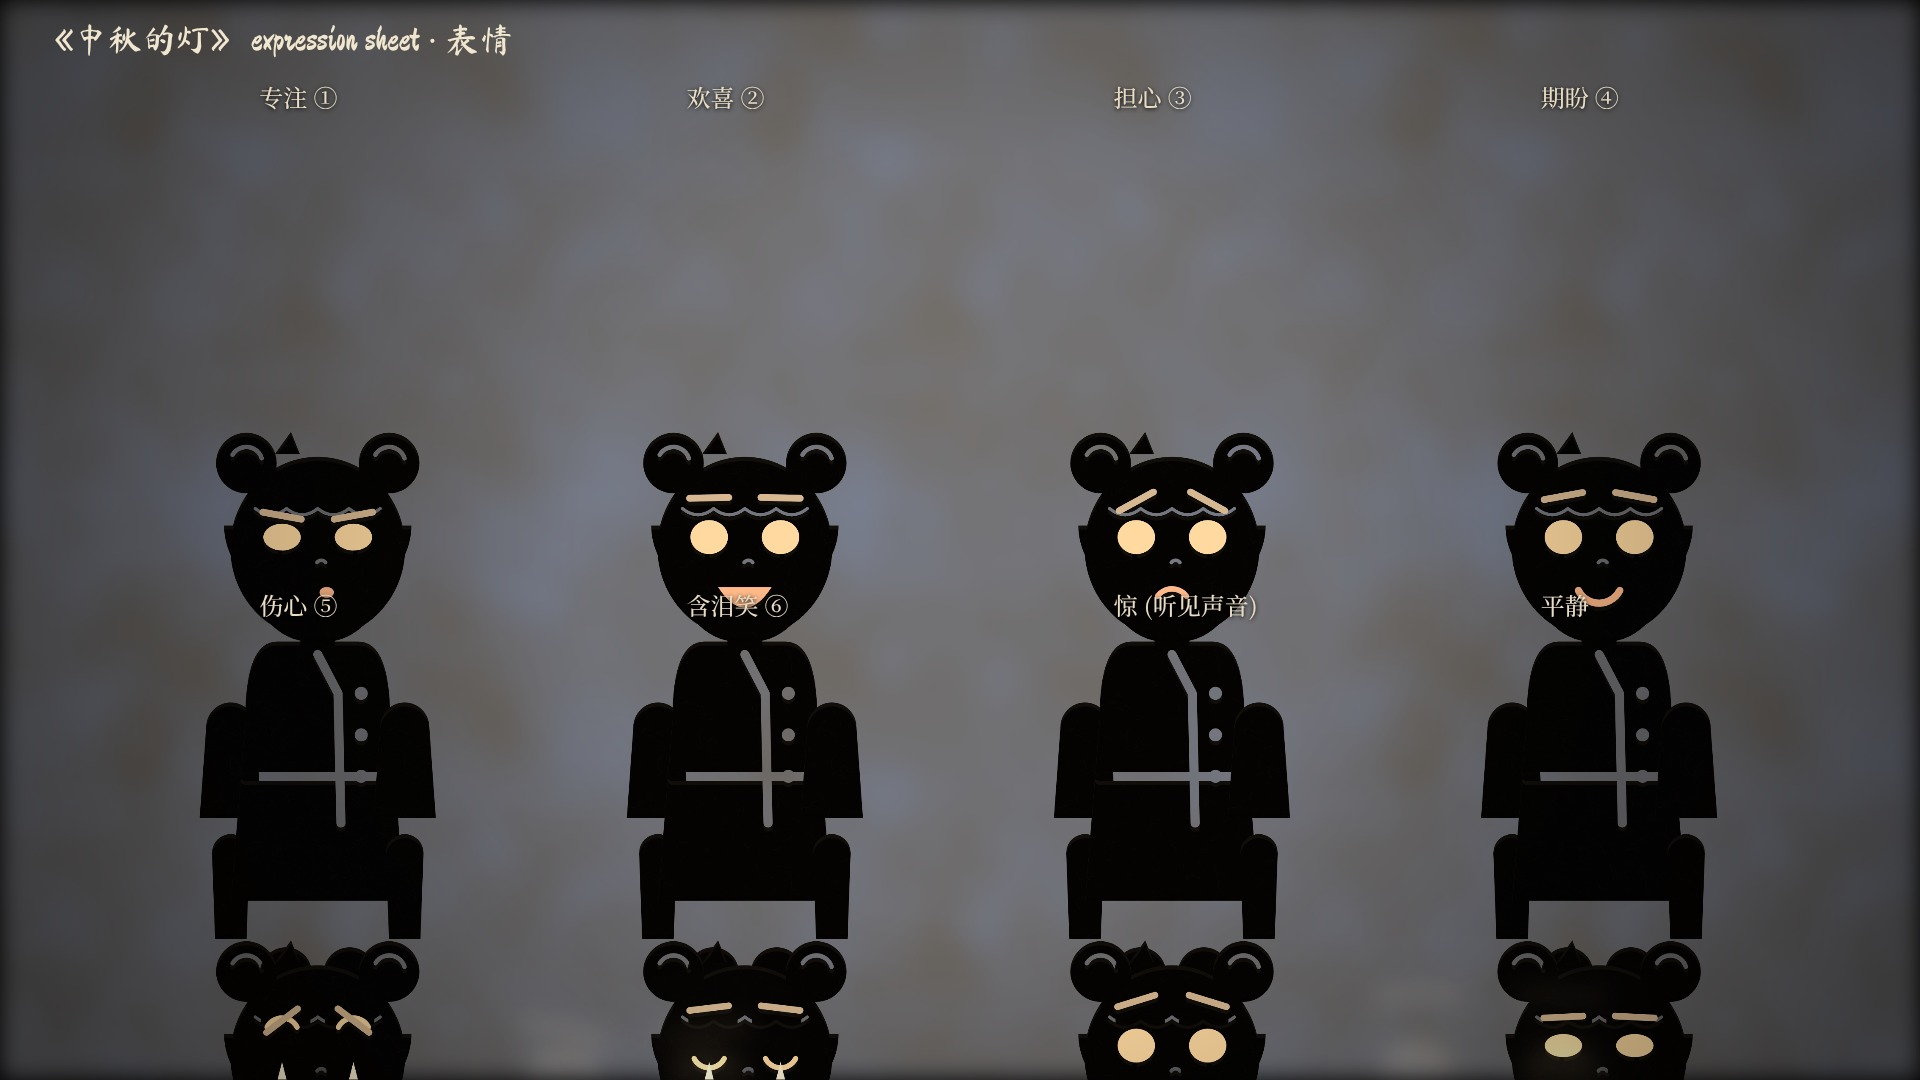
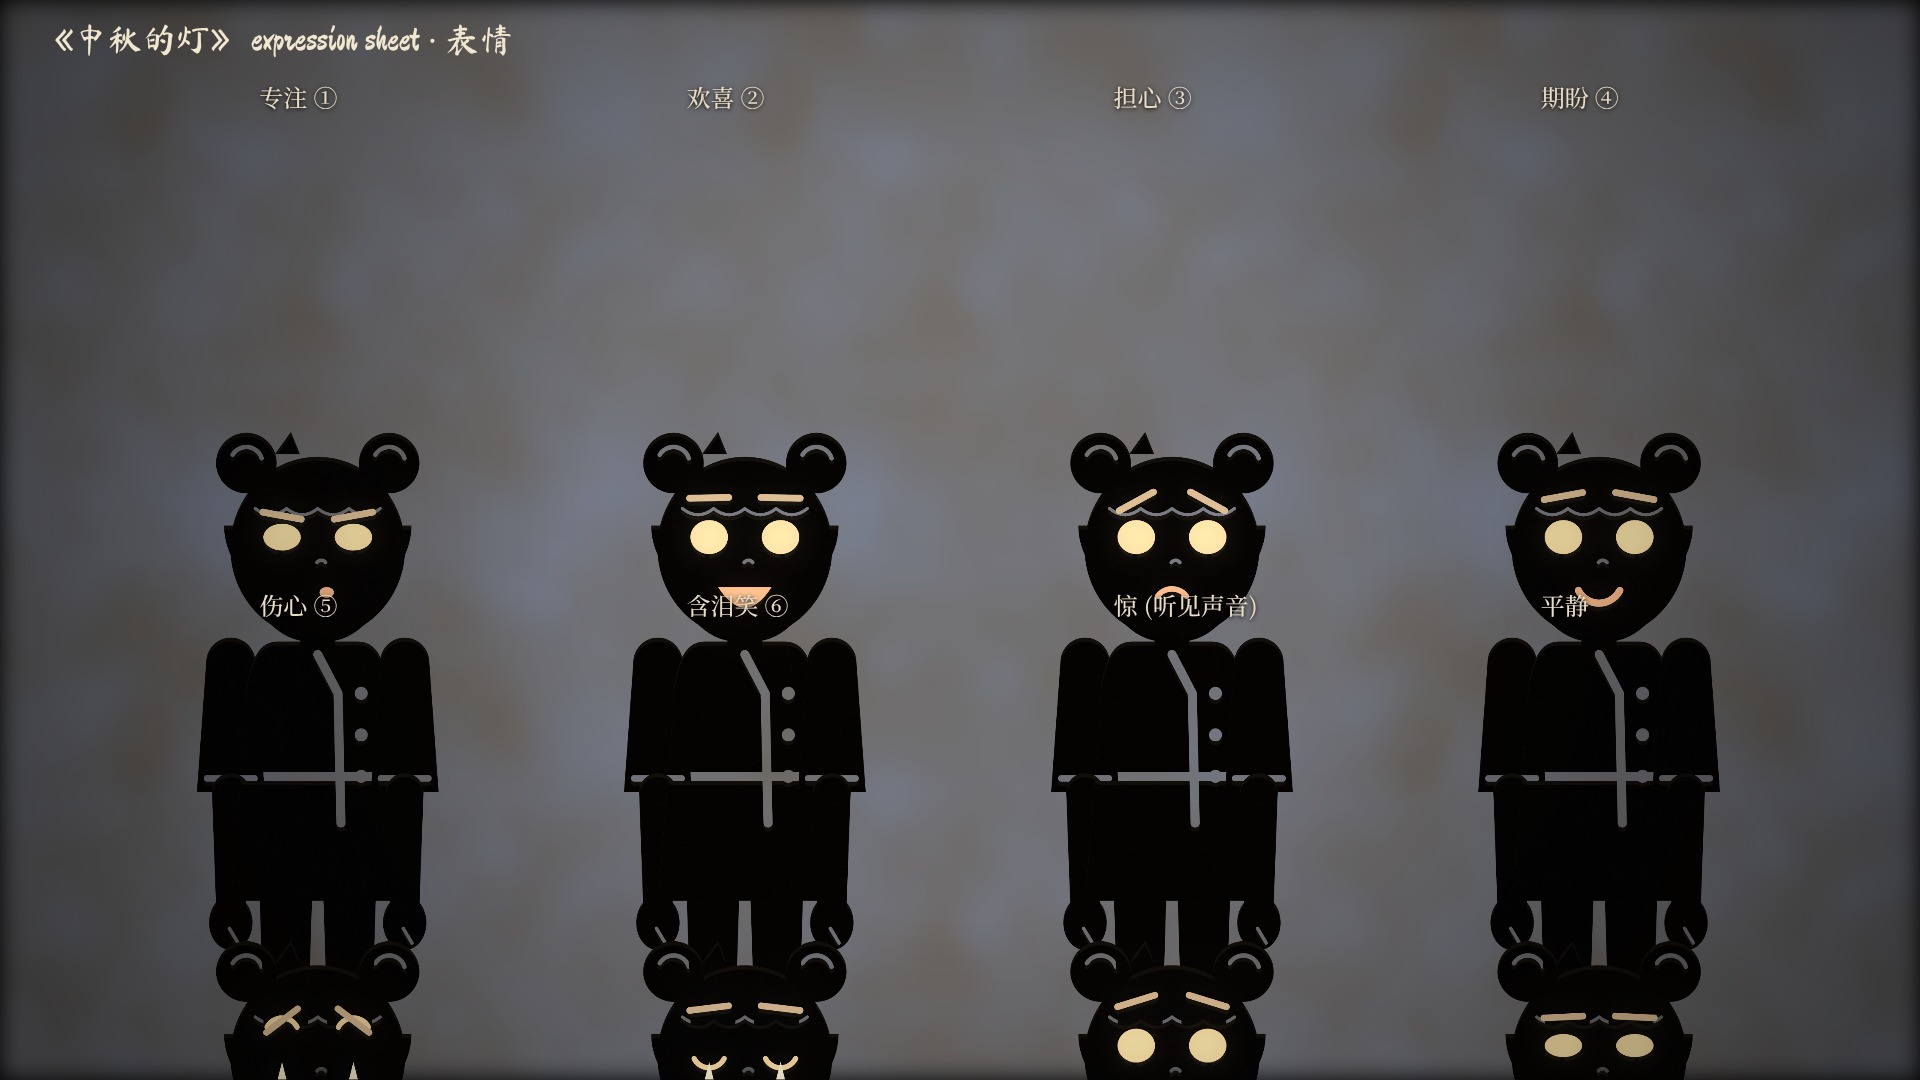
moon-lanterns: credits, glyph/subtitle/contact checks, treatment comparison with the demo
Claude-Session: https://claude.ai/code/session_01SfPLwqEfxXQUvB65PcgVmr

diff --git a/films/moon-lanterns/src/scenes.js b/films/moon-lanterns/src/scenes.js
@@ -81,7 +81,7 @@ export function village(variant, o = {}) {
     it.title = S.add(stripL, strip({ w: .2, h: .05, text: '中秋的灯', size: .034, font: 'MaShanZheng', name: 'title', paper: '#f3e2bd', ink: '#3a1810', spacing: .003 }), { x: .09, y: .085, reveal: { from: 'right', k: 0 }, vis: true });
     it.seal = S.add(stripL, piece({ w: .02, h: .02, ppm: 8000, color: '#c8322a', finish: { px: 2, rim: .2, under: .2 }, draw: x => { x.beginPath(); x.roundRect(-.007, -.007, .014, .014, .001); x.fill(); text(x, '月', 0, .0003, .0105, 'MaShanZheng', { fill: '#f7e9d2' }); } }), { x: .172, y: .072, vis: false });
     const capL = S.layer({ z: -.074, trans: .5, shadow: false, recv: false });
-    it.caption = S.add(capL, strip({ w: .16, h: .022, text: '八月十五 · 石崖渔村', size: .013, font: 'MaShanZheng', name: 'caption', paper: '#efdcb4', ink: '#3a1810', spacing: .001 }), { x: -.09, y: -.078, reveal: { from: 'left', k: 0 } });
+    it.caption = S.add(capL, strip({ w: .16, h: .022, text: '八月十五 · 石崖渔村', size: .013, font: 'MaShanZheng, NotoSerifSC', name: 'caption', paper: '#efdcb4', ink: '#3a1810', spacing: .001 }), { x: -.09, y: -.078, reveal: { from: 'left', k: 0 } });
   }
   // figures at the pier end (built on demand by the shots)
   const figL = S.layer({ z: -.072, trans: .1 });

diff --git a/films/moon-lanterns/tools/glyphcheck.py b/films/moon-lanterns/tools/glyphcheck.py
@@ -1,0 +1,24 @@
+"""CJK glyph check: every character the film puts on screen (paper strips in timeline.json STRIPS, subtitles in CUES, the seal)
+must have a real glyph in the font that draws it (no .notdef box). Then a rendered-frame check: a frame with the title and one
+with each subtitle are rendered and the text area is searched for the hollow-box signature (a rectangle outline) — reported as
+pixels, with a note. python tools/glyphcheck.py"""
+import json, os, sys
+from fontTools.ttLib import TTFont
+HERE = os.path.dirname(os.path.dirname(os.path.abspath(__file__)))
+TL = json.load(open(os.path.join(HERE, 'timeline.json')))
+brush = TTFont(os.path.join(HERE, 'fonts', 'MaShanZheng-Regular.ttf')); serif = TTFont(os.path.join(HERE, 'fonts', 'NotoSerifSC-sub.ttf'))
+def cmap(f): return f.getBestCmap()
+cb, cs = cmap(brush), cmap(serif)
+bad = []
+for s in TL['STRIPS'] + [{'id': 'seal', 'text': '月'}]:
+    for ch in s['text']:
+        if ch.isspace(): continue
+        if ord(ch) not in cb and ord(ch) not in cs: bad.append(('MaShanZheng/NotoSerifSC', s['id'], ch))   # strips use the brush font with Noto Serif SC as the per-glyph fallback (the middle dot)
+for c in TL['CUES']:
+    for ch in c['text']:
+        if ch.isspace(): continue
+        if ord(ch) not in cs: bad.append(('NotoSerifSC-sub', c['id'], ch))
+n = sum(len(s['text'].replace(' ', '')) for s in TL['STRIPS']) + 1 + sum(len(c['text']) for c in TL['CUES'])
+if bad: print('MISSING GLYPHS:', bad); sys.exit(1)
+fb = [ch for s_ in TL['STRIPS'] for ch in s_['text'] if not ch.isspace() and ord(ch) not in cb]
+print(f'{n} characters on screen, every one has a glyph (Ma Shan Zheng: {len(cb)} glyphs; Noto Serif SC subset: {len(cs)} glyphs; strip characters drawn by the Noto fallback: {fb or "none"})')

diff --git a/films/moon-lanterns/tools/subcheck.py b/films/moon-lanterns/tools/subcheck.py
@@ -1,0 +1,22 @@
+"""Is the ground under every subtitle dark? For each cue, one frame at its middle: in the subtitle box, the share of
+non-text pixels darker than L 0.35 (text = bright and unsaturated). python tools/subcheck.py film.mp4"""
+import json, os, subprocess, sys
+import numpy as np
+HERE = os.path.dirname(os.path.dirname(os.path.abspath(__file__)))
+film = sys.argv[1]
+TL = json.load(open(os.path.join(HERE, 'timeline.json'))); cues = TL['CUES']; H = TL['HIT']
+worst = 1
+for c in cues:
+    t = (c['t0'] + c['t1']) / 2
+    raw = subprocess.run(['ffmpeg', '-loglevel', 'error', '-ss', f'{t:.3f}', '-i', film, '-frames:v', '1', '-f', 'rawvideo', '-pix_fmt', 'rgb24', '-'], capture_output=True).stdout
+    if len(raw) < 1920 * 1080 * 3: print('no frame at', t); continue
+    im = np.frombuffer(raw, np.uint8).reshape(1080, 1920, 3) / 255.
+    bottom = 74 if t > H['pullOut'] + 3 else 64
+    y1 = 1080 - bottom + 8; y0 = y1 - 70
+    box = im[y0:y1, 560:1360]
+    L = box @ np.array([.2126, .7152, .0722]); sat = box.max(2) - box.min(2)
+    text = (L > .55) & (sat < .2)
+    dark = ((L < .35) & ~text).sum() / max(1, (~text).sum())
+    worst = min(worst, dark)
+    print(f"{c['id']:4} {t:7.2f}s  dark ground {dark * 100:5.1f}%  {c['text']}")
+print('worst', round(worst * 100, 1), '%')

diff --git a/films/moon-lanterns/TREATMENT.md b/films/moon-lanterns/TREATMENT.md
@@ -181,12 +181,18 @@ Three layers throughout; music ducks under the radio crackle and the key light c
 
 ## 12. Not the demo (filled after reading DEMO.md)
 
+Read after the treatment was written. Six points compared; all six differ.
+
 | | Demo (The Last Night Train) | This film |
 |---|---|---|
-| Structure | a train's last run, halt by halt | one night in a village: home → fog → tower → chain → reunion, with a keepsake frame |
-| Opening | (see DEMO.md) a box shot and a title | the lamp switched off in a dark room, then on; title grows on the front sheet |
-| Signature shot | windows lighting car by car; a viaduct | a chain of villagers' lanterns lining a cliff path and a lighthouse gallery, burning through fog |
-| Camera path | lateral travel with the train | push into the box, tilt up a tower, rack focus to a lighthouse, dolly out from the tower, pull out of the box |
-| Score shape | (see DEMO.md) | one music-box theme, broken to a single piano note and silence, restated in a string swell |
-| Ending | windows going out at a terminus; a ticket end card | the lit lamp and a faded old rabbit lantern on a table; a closing line under the box |
-| Props | train, name boards, ticket | rabbit lantern, mooncakes, radio, lighthouse, festival lanterns (lotus, fish, star, carp) |
+| Structure | a train's last run, halt by halt, no figures, English narration | one night in a village told by jointed figures: home → fog → tower → chain → reunion, inside a keepsake frame; no voice |
+| Opening | a dark train at a lit halt; its windows come on car by car with rising glockenspiel notes | a dark room; the lamp clicks on (source, far sheets, holes), the title grows on the front sheet, the lens pushes into the box |
+| Signature shot | the train on a curved viaduct over a snowy valley; the tunnel blink | the dolly out from the dead lighthouse as the villagers' lanterns line the cliff path and the gallery and burn through the fog |
+| Camera path | push → pull-out with the engine → lateral travel alongside; crane down at the sea | push into the box, top-down insert, tilt up the cliff and the tower, rack focus to the lighthouse, dolly out, pull out of the box |
+| Score shape | 96 bpm harp ostinato locked to the wheel clacks; glockenspiel per window | five tempos (72/60/54/84/66); one music-box theme, broken to a single felt-piano note and a real silence, restated in a string swell on the last gallery lantern |
+| Ending | windows go out one by one at the terminus; a ticket drops for the end card | the family shares three mooncakes under the moon; rack focus into light; pull out to the lit lamp and a faded old rabbit lantern on a table |
+| Props | train, halts with name boards, ticket | rabbit lantern, mooncakes, radio, scissors, lighthouse, festival lanterns (lotus, fish, star, carp) |
+
+Engine: the demo renders with three.js (VSM shadows, a backlight shader, DoF and bloom passes). This film reproduces the same paper
+physics in Canvas2D (per-layer backlight with pulp mottle, cast shadows of each sheet on the next, per-layer depth of field, bloom),
+because the render VM has no GPU. Only the grain and mottle texture generators were taken from the demo as technique.
